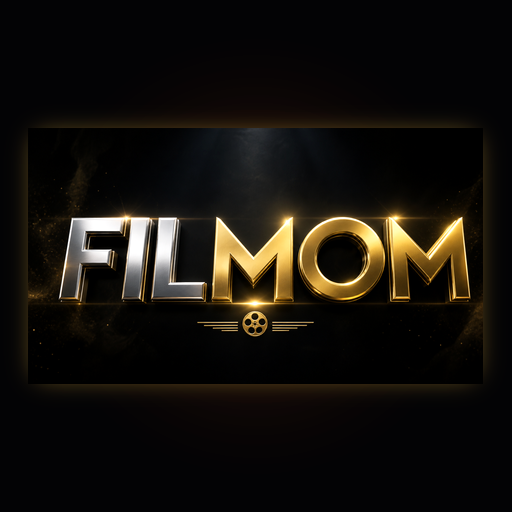
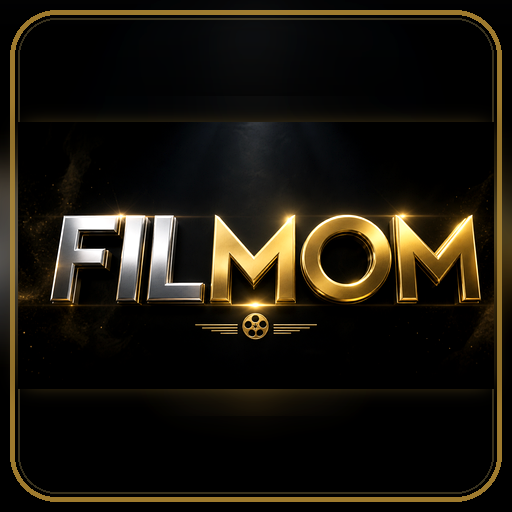
Publica FILMOM 1.0.7: fluxo simples clients e servers

diff --git a/README.md b/README.md
@@ -1,15 +1,16 @@
 # FILMOM distribuição pública
 
-Este repositório contém somente os arquivos públicos necessários para distribuição do addon FILMOM.
+Este repositório contém os arquivos públicos necessários para distribuição e atualização do addon **FILMOM** para Kodi.
 
-O arquivo `clientes.json` está em formato protegido. Ele pode ficar público porque URL, usuário e senha do servidor não aparecem em texto aberto. Para liberar um cliente, gere novamente o `clientes.json` usando o arquivo administrativo em texto claro e publique o resultado aqui.
-
-Arquivos principais:
+A versão publicada atualmente é a **1.0.7**. Esta versão foi reconstruída no mesmo padrão funcional do repositório de referência `plugn-streaming-vip-repo`, usando autenticação simples por `clients.json` e carregamento de servidores por `servers.json`, sem o fluxo anterior de senha criptografada/protegida.
 
 | Arquivo | Função |
 |---|---|
-| `clientes.json` | Lista pública protegida de clientes autorizados. |
-| `manifest.json` | Manifesto de atualização automática do addon. |
-| `plugin.video.filmom-1.0.3.zip` | ZIP instalável do addon. |
-| `plugin.video.filmom-1.0.3.zip.sha256` | Hash SHA-256 do ZIP. |
-| `icon.png` | Ícone do addon. |
+| `manifest.json` | Manifesto de atualização automática apontando para a versão mais recente. |
+| `plugin.video.filmom-1.0.7.zip` | Pacote instalável final do addon FILMOM para Kodi. |
+| `plugin.video.filmom-1.0.7.zip.sha256` | Hash SHA-256 para verificação de integridade do ZIP. |
+| `clients.json` | Lista simples de clientes autorizados, com `password` e `active`. |
+| `servers.json` | Lista simples de servidores ativos, com `url`, `user`, `pass` e `active`. |
+| `icon.png` | Ícone quadrado 512x512 corrigido para o addon. |
+
+> Para evitar conflito com dados antigos das versões 1.0.3 a 1.0.6, recomenda-se instalar a versão 1.0.7 após limpar/remover os dados antigos do addon FILMOM no Kodi.